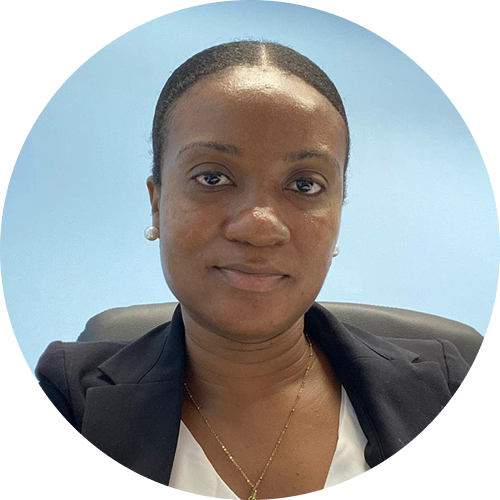
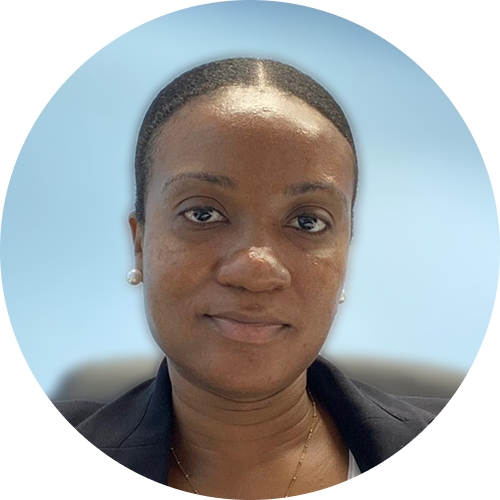
Updated Files
Contact Page completed with functional contact form
All links updated
Correction to images made
Service details background color removed - Added fade in function

Changed region(s): [[0.06, 0.06, 0.99, 1.0], [0.18, 0.87, 0.24, 0.9]]

diff --git a/contact.html b/contact.html
@@ -50,6 +50,53 @@
     <div class="page-intro">
         <h2>Connect to the CORE</h2>
     </div>
+
+    <div class="container">
+
+        <form action="https://formspree.io/f/mgvrwybb" method="POST">
+            <h3>Message Us</h3>
+
+            <label for="customer_name">Name</label>
+            <input type="text" id="customer_name" name="customer_name" placeholder="John Doe" required>
+
+            <label for ="customer_email">Email</label>
+            <input type="email" id="customer_email" name="customer_email" placeholder="email@example.com" required>
+
+            <label for ="customer_phone">Email</label>
+            <input type="tel" id="customer_phone" name="customer_phone" placeholder="888-888-8888" required>
+
+            <label for="customer_message">Message</label>
+            <textarea id="customer_message" name="customer_message" placeholder="Enter your message" rows="7"></textarea>
+
+            <div class="form-btn">
+                <input type="reset" value="Clear">
+                <input type="submit" value="Send Message">
+            </div>
+
+        </form>
+
+        <div class="contactMethod">
+            <h4>Other Contact Methods</h4>
+            <div>
+                <img src="assets/emailIcon.png" alt="Email Icon">
+                <a href="mailto:info@coreaccountingja.com">info@coreaccountingja.com</a>
+            </div>
+            <div>
+                <img src="assets/instagramlogo.png" alt="Instagram Icon">
+                <a href="https://www.instagram.com/core_accounting_ja/" target="_blank">@core_accounting_ja</a>
+            </div>
+            <div>
+                <img src="assets/linkedinlogo.png" alt="Instagram Icon">
+                <a href="https://www.linkedin.com/company/core-accounting-jamaica/" target="_blank">Core Accounting Jamaica</a>
+            </div>
+            <div>
+                <img src="assets/locationIcon.png" alt="Location Icon">
+                <a href="https://maps.google.com/maps/search/+Kingston+Jamaica/" target="_blank">Kingston, Jamaica</a>
+            </div>
+        </div>
+
+    </div>
+
 </section>
 
 
@@ -61,8 +108,8 @@
             <div class="column">
                 <img class="footerlogo" src="assets/navlogo.png" alt="CORE Accounting Logo">
                 <div class="social-media">
-                    <img src="assets/instagramlogo.png" alt="Instagram Logo">
-                    <img src="assets/linkedinlogo.png" alt="LinkedIn Logo">
+                    <img src="assets/instagramlogo.png" alt="Instagram Logo" onclick="window.open('https://www.instagram.com/core_accounting_ja/')">
+                    <img src="assets/linkedinlogo.png" alt="LinkedIn Logo" onclick="window.open('https://www.linkedin.com/company/core-accounting-jamaica/')">
                 </div>
             </div>
             <div class="column">
@@ -106,7 +153,7 @@
 <div id="calendlyOverlay">
     <div id="calendlyModal">
         <button id="closeCalendly">&times;</button>
-        <div class="calendly-inline-widget" data-url="https://calendly.com/odanecollins/30min?primary_color=000000"></div>
+        <div class="calendly-inline-widget" data-url="https://calendly.com/coreaccountingja-info/30min"></div>
     </div>
 </div>
 

diff --git a/style.css b/style.css
@@ -289,6 +289,10 @@ nav{
     color: white;
 }
 
+.book-consult{
+    color:black;
+}
+
 
 
 
@@ -439,6 +443,12 @@ footer{
     flex-wrap:wrap;
 }
 
+.social-media img:hover{
+    cursor: pointer;
+    transform: scale(1.1);
+    transition: all 0.3s ease;
+}
+
 .column{
     display: flex;
     flex-direction: column;
@@ -503,15 +513,16 @@ footer{
 
 .service{
     border-radius: 20px;
-    background-color: #FBF9EA;
     display: flex;
     padding: 20px;
     max-width: 1000px;
     min-width: 400px;
     min-height: 400px;
     flex-wrap:wrap;
-    box-shadow: 3px 3px 10px black;
-    margin: 80px 0;
+    margin: 60px 0;
+    opacity: 0;
+    transform: translateY(40px);
+    transition: opacity 0.8s ease-out, transform 0.8s ease-out;
 }
 
 .key-offerings{
@@ -661,4 +672,96 @@ footer{
 .calendly-inline-widget{
     min-width:320px;
     height:100%;
+}
+
+/*========================================CONTACT PAGE======================================================*/
+#core-contact .container{
+    display: flex;
+    flex-direction: row;
+    padding:100px 0;
+    gap: 50px;
+    align-items: flex-start;
+    flex-wrap: wrap;
+}
+
+#core-contact .container form{
+    color: white;
+    background: black;
+    min-width: 500px;
+    padding: 50px;
+    border-radius: 20px;
+    display: flex;
+    flex-direction: column;
+    justify-content: space-evenly;
+}
+
+#core-contact .container form > input{
+    width: 100%;
+    height: 40px;
+    padding: 3px;
+    border-radius: 10px;
+    margin-bottom: 30px;
+    font-size: var(--fs18);
+    font-family: inherit;
+}
+
+.form-btn{
+    display: flex;
+    flex-direction: row;
+    gap: 30px;
+}
+
+.form-btn input{
+    width: 200px;
+    height: 50px;
+    border-radius: 15px;
+    background-color: white;
+    color: black;
+    margin: 30px 0;
+    cursor: pointer;
+    transition: all 0.3s ease;
+}
+
+.form-btn input:hover{
+    background-color: gray;
+    color: white;
+    transform: scale(1.05);
+}
+
+textarea{
+    border-radius: 10px;
+    padding: 3px;
+    font-size: var(--fs18);
+    font-family: inherit;
+}
+
+.contactMethod{
+    display: flex;
+    flex-direction: column;
+    gap: 20px;
+    min-width: 300px;
+}
+
+.contactMethod div{
+    display: flex;
+    align-items: center;
+    gap: 10px;
+}
+
+.contactMethod div a{
+    text-decoration: none;
+    color: gray;
+    transition: all 0.3s ease;
+}
+
+.contactMethod div a:hover{
+    text-decoration: none;
+    color: black;
+    font-weight: bold;
+}
+
+.contactMethod div img{
+    width: auto;
+    height: 30px;
+    filter: invert(1);
 }

diff --git a/script.js b/script.js
@@ -96,6 +96,14 @@ document.addEventListener("DOMContentLoaded", () => {
         });
     });
 
+    // Open Calendly modal when "Let's Get Started" is clicked
+    document.querySelectorAll(".get-started").forEach(button => {
+        button.addEventListener("click", () => {
+            overlay.style.display = "flex";
+            document.body.style.overflow = "hidden"; // Prevent scrolling in background
+        });
+    });
+
     // Close modal
     closeBtn.addEventListener("click", () => {
         overlay.style.display = "none";
@@ -110,4 +118,32 @@ document.addEventListener("DOMContentLoaded", () => {
         }
     });
 
+});
+
+//----------------------SERVICES-SERVICE PAGE----------------------------------------
+document.addEventListener("DOMContentLoaded", () => {
+    const services = document.querySelectorAll(".service");
+
+    // Set initial hidden state
+    services.forEach(service => {
+        service.style.opacity = "0";
+        service.style.transform = "translateY(40px)";
+        service.style.transition = "opacity 0.8s ease-out, transform 0.8s ease-out";
+    });
+
+    // Observer for fade-in animation
+    const observer = new IntersectionObserver(entries => {
+        entries.forEach(entry => {
+            if (entry.isIntersecting) {
+                entry.target.style.opacity = "1";
+                entry.target.style.transform = "translateY(0)";
+                observer.unobserve(entry.target); // fade in only once
+            }
+        });
+    }, {
+        threshold: 0.2 // trigger when 20% visible
+    });
+
+    // Observe each service element
+    services.forEach(service => observer.observe(service));
 });

diff --git a/services.html b/services.html
@@ -134,10 +134,6 @@
                 </div>
             </div>
 
-            <div class="additional-services">
-                <p>Additional Services:</p>
-            </div>
-
             <div class="service">
                 <div class="details">
                     <h3>Business Registration</h3>
@@ -194,8 +190,8 @@
                 <div class="column">
                     <img class="footerlogo" src="assets/navlogo.png" alt="CORE Accounting Logo">
                     <div class="social-media">
-                        <img src="assets/instagramlogo.png" alt="Instagram Logo">
-                        <img src="assets/linkedinlogo.png" alt="LinkedIn Logo">
+                        <img src="assets/instagramlogo.png" alt="Instagram Logo" onclick="window.open('https://www.instagram.com/core_accounting_ja/')">
+                        <img src="assets/linkedinlogo.png" alt="LinkedIn Logo" onclick="window.open('https://www.linkedin.com/company/core-accounting-jamaica/')">
                     </div>
                 </div>
                 <div class="column">
@@ -241,7 +237,7 @@
     <div id="calendlyOverlay">
         <div id="calendlyModal">
             <button id="closeCalendly">&times;</button>
-            <div class="calendly-inline-widget" data-url="https://calendly.com/odanecollins/30min?primary_color=000000"></div>
+            <div class="calendly-inline-widget" data-url="https://calendly.com/coreaccountingja-info/30min"></div>
         </div>
     </div>
 

diff --git a/about.html b/about.html
@@ -135,8 +135,8 @@
             <div class="column">
                 <img class="footerlogo" src="assets/navlogo.png" alt="CORE Accounting Logo">
                 <div class="social-media">
-                    <img src="assets/instagramlogo.png" alt="Instagram Logo">
-                    <img src="assets/linkedinlogo.png" alt="LinkedIn Logo">
+                    <img src="assets/instagramlogo.png" alt="Instagram Logo" onclick="window.open('https://www.instagram.com/core_accounting_ja/')">
+                    <img src="assets/linkedinlogo.png" alt="LinkedIn Logo" onclick="window.open('https://www.linkedin.com/company/core-accounting-jamaica/')">
                 </div>
             </div>
             <div class="column">
@@ -180,7 +180,7 @@
 <div id="calendlyOverlay">
     <div id="calendlyModal">
         <button id="closeCalendly">&times;</button>
-        <div class="calendly-inline-widget" data-url="https://calendly.com/odanecollins/30min?primary_color=000000"></div>
+        <div class="calendly-inline-widget" data-url="https://calendly.com/coreaccountingja-info/30min"></div>
     </div>
 </div>
 
@@ -188,5 +188,4 @@
 <script src="https://assets.calendly.com/assets/external/widget.js" async></script>
 
 </body>
-
 </html>

diff --git a/index.html b/index.html
@@ -113,8 +113,8 @@
                 <div class="column">
                     <img class="footerlogo" src="assets/navlogo.png" alt="CORE Accounting Logo">
                     <div class="social-media">
-                        <img src="assets/instagramlogo.png" alt="Instagram Logo">
-                        <img src="assets/linkedinlogo.png" alt="LinkedIn Logo">
+                        <img src="assets/instagramlogo.png" alt="Instagram Logo" onclick="window.open('https://www.instagram.com/core_accounting_ja/')">
+                        <img src="assets/linkedinlogo.png" alt="LinkedIn Logo" onclick="window.open('https://www.linkedin.com/company/core-accounting-jamaica/')">
                     </div>
                 </div>
                 <div class="column">
@@ -159,7 +159,7 @@
     <div id="calendlyOverlay">
         <div id="calendlyModal">
             <button id="closeCalendly">&times;</button>
-            <div class="calendly-inline-widget" data-url="https://calendly.com/odanecollins/30min?primary_color=000000"></div>
+            <div class="calendly-inline-widget" data-url="https://calendly.com/coreaccountingja-info/30min"></div>
         </div>
     </div>
 
